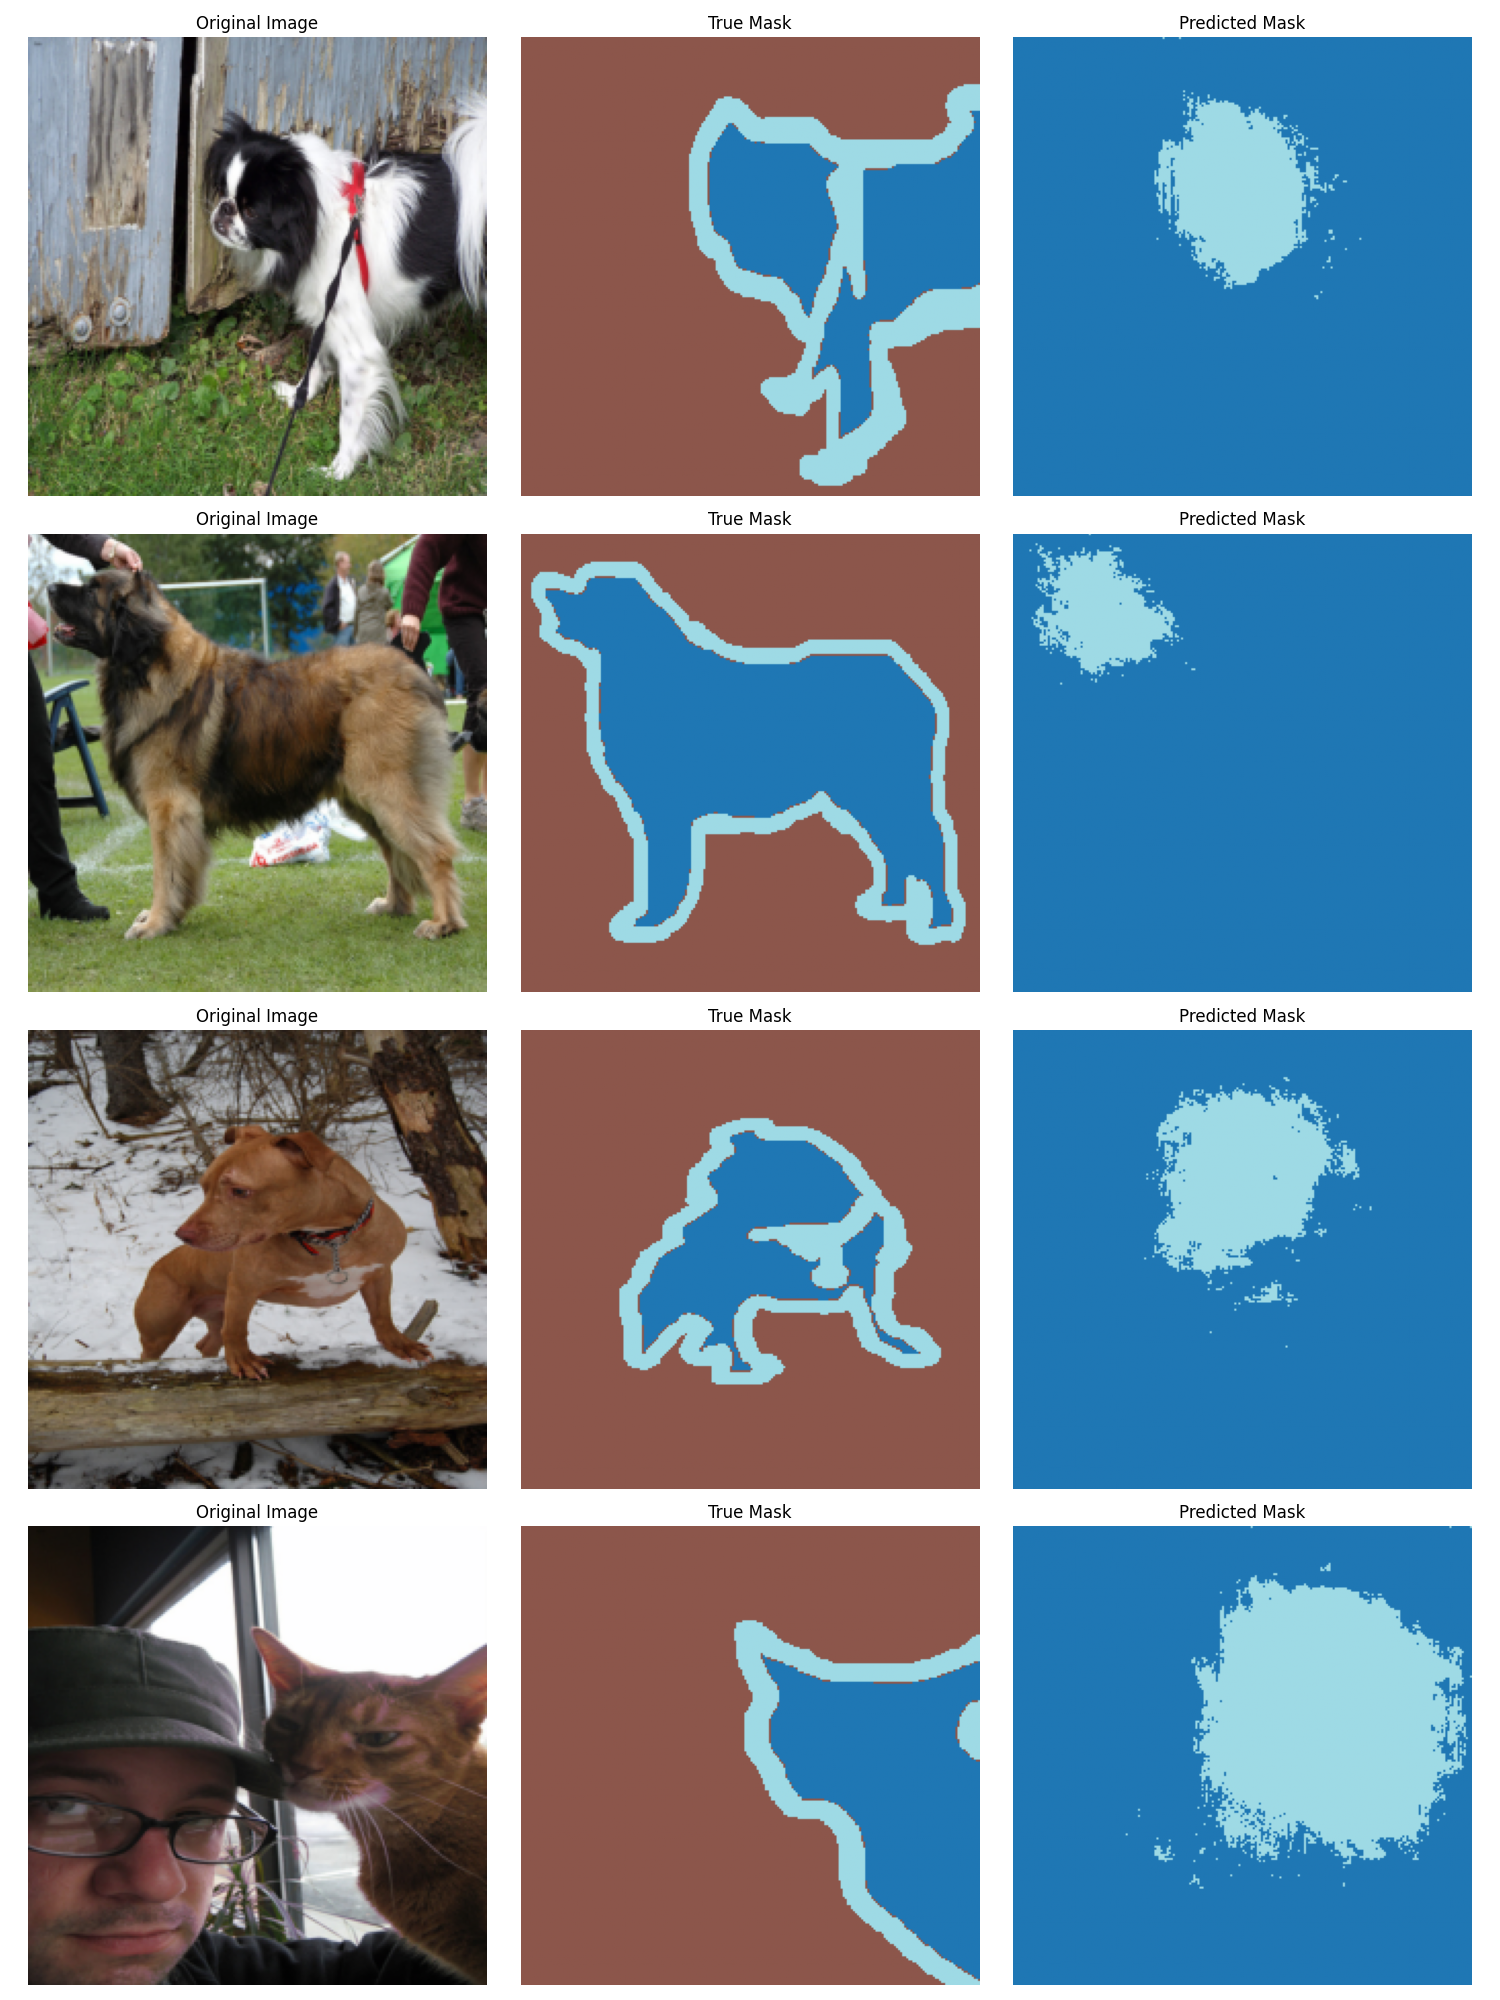
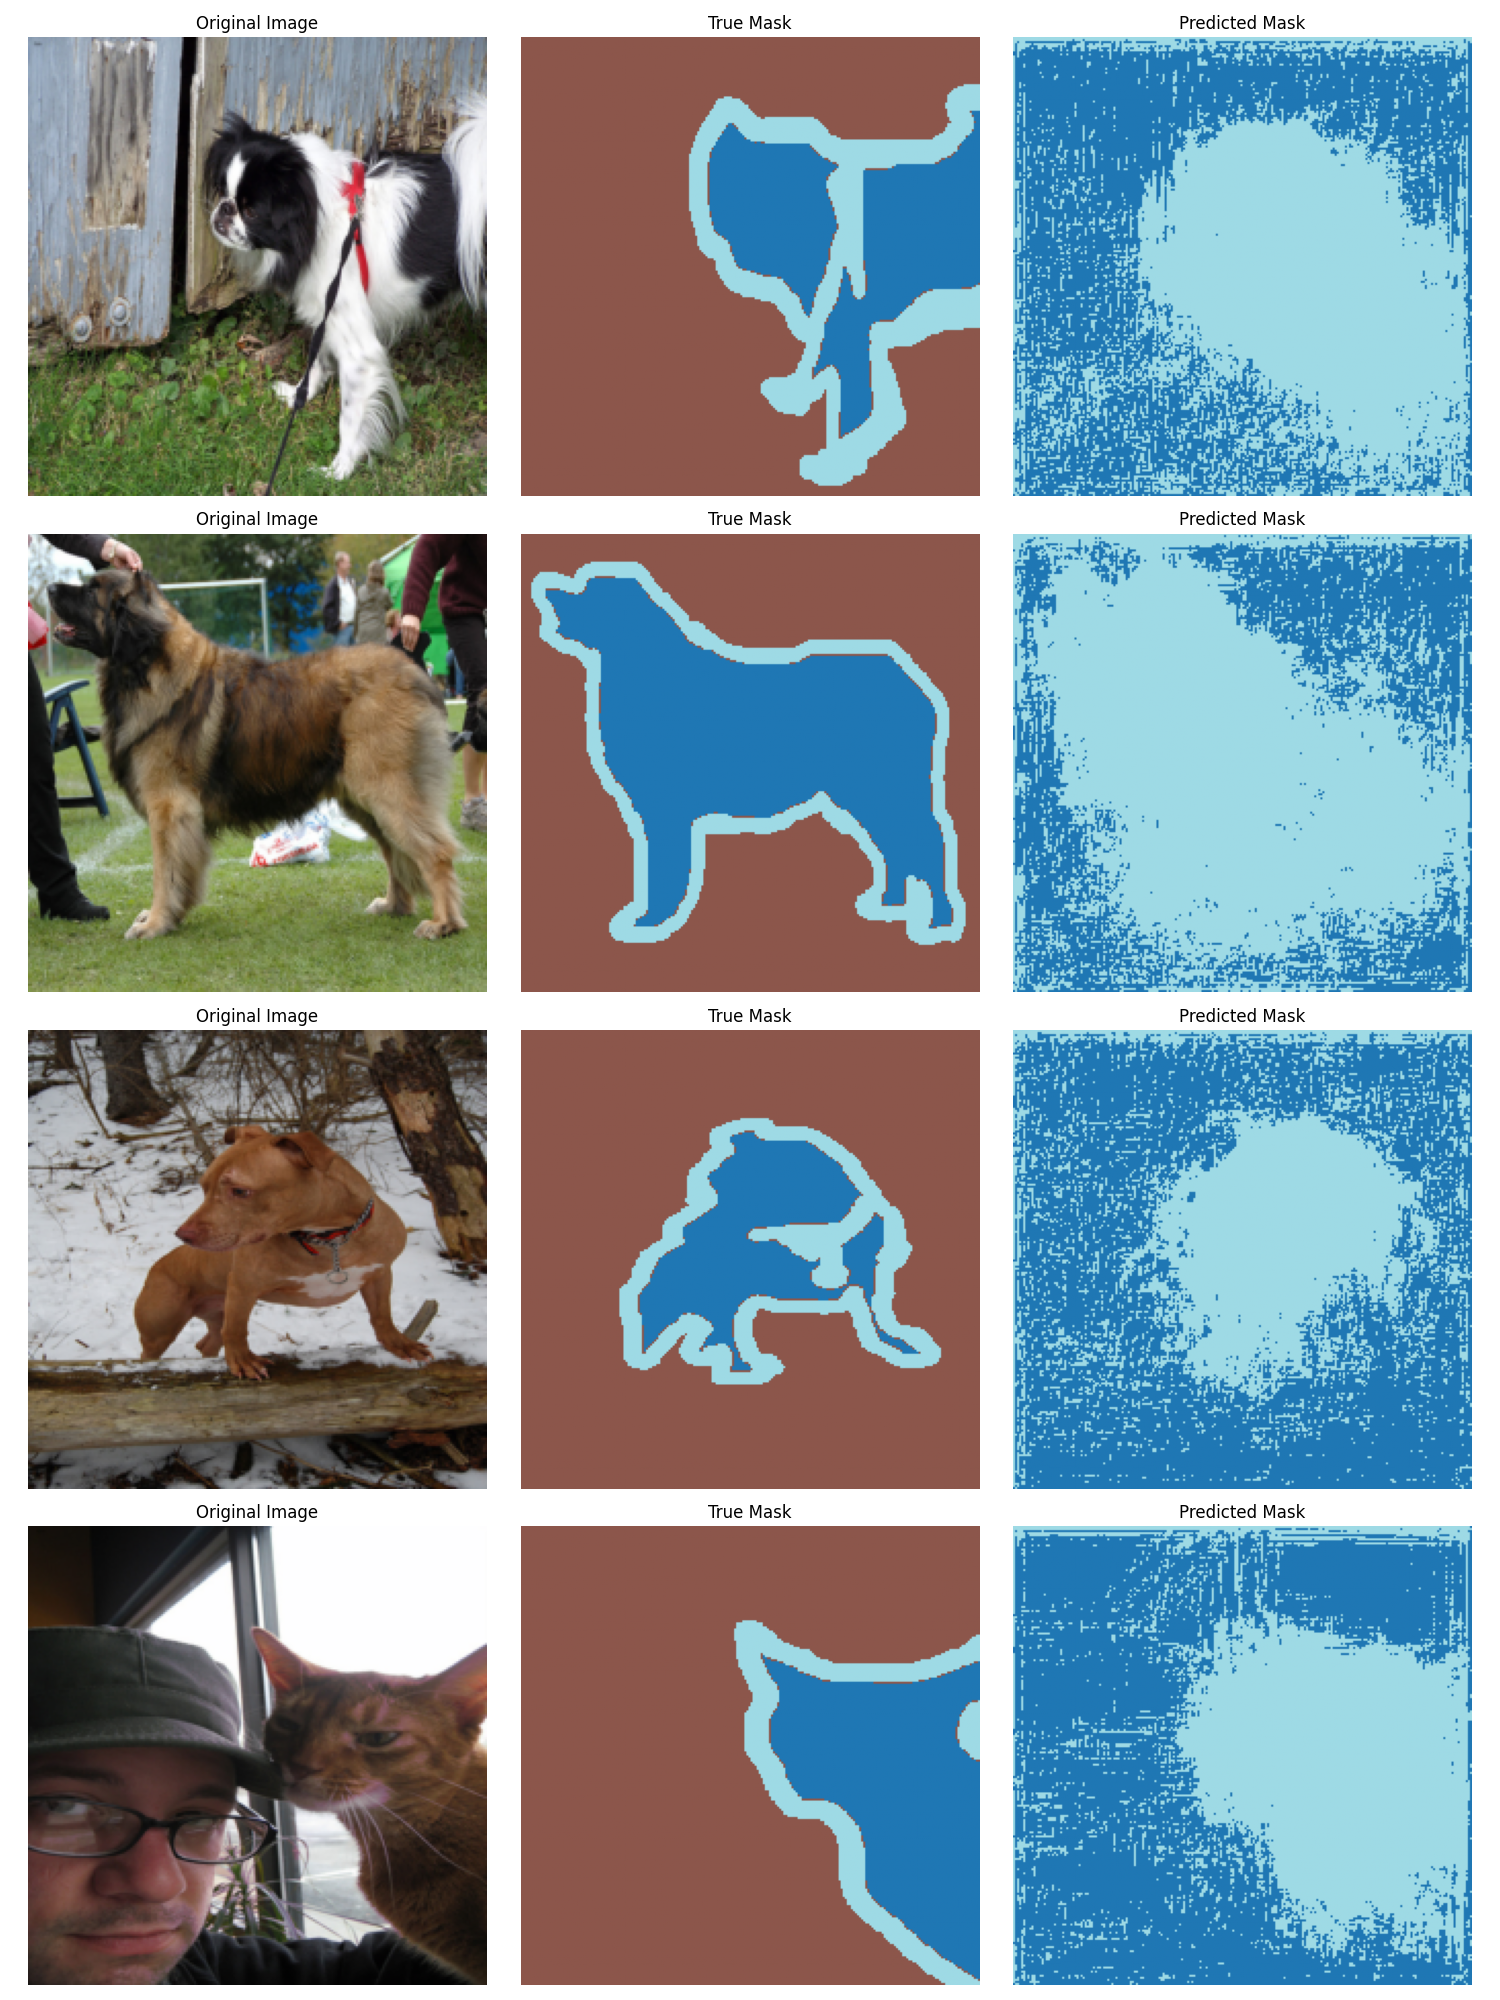
cam heatmap loss done

Changed region(s): [[0.6747, 0.0, 0.9813, 0.992]]

diff --git a/experiment.py b/experiment.py
@@ -196,6 +196,38 @@ def load_checkpoint(model, checkpoint_path):
     model.load_state_dict(checkpoint['model_state_dict'])
     return model, checkpoint['epoch'], checkpoint['best_loss']
 
+
+class CamLoss(nn.Module):
+    def __init__(self):
+        super().__init__()
+        self.loss_fn = nn.BCEWithLogitsLoss(
+            reduction='none')  # we'll reduce manually
+
+    def forward(self, logits, targets, mask=None):
+        """
+        Args:
+            logits: Tensor of shape (B, 1, H, W) — raw logits
+            targets: Tensor of shape (B, 1, H, W) — soft labels in [0, 1], or a special ignore value
+            mask: Optional Tensor (B, 1, H, W) — 1 to keep, 0 to ignore
+                  If not provided, mask = (targets != -1)
+        Returns:
+            Scalar loss
+        """
+        if mask is None:
+            # Mask everything that is not marked with -1 (ignore signal)
+            mask = (targets != -1).float()
+
+        loss = self.loss_fn(logits, targets)
+        loss = loss * mask  # zero out ignored areas
+
+        # Avoid division by zero
+        denom = mask.sum()
+        if denom == 0:
+            return torch.tensor(0.0, device=logits.device, requires_grad=True)
+
+        return loss.sum() / denom
+
+
 class BBoxLoss(nn.Module):
     def __init__(self):
         super().__init__()
@@ -212,7 +244,8 @@ class BBoxLoss(nn.Module):
         B, _, H, W = logits.shape
         background_logits = torch.zeros_like(logits)  # fake bg logits
         logits_2ch = torch.cat([background_logits, logits], dim=1)
-        targets = torch.full((B, H, W), -100, dtype=torch.long, device=logits.device)  # Default to ignore
+        targets = torch.full((B, H, W), -100, dtype=torch.long,
+                             device=logits.device)  # Default to ignore
 
         for i in range(B):
             # print(bboxes[i])
@@ -224,11 +257,12 @@ class BBoxLoss(nn.Module):
         loss = self.loss_fn(logits_2ch, targets)
         return loss
 
+
 def train_model(
     model,
     train_dataloader,
-    epochs=3,
-    learning_rate=3e-5,
+    epochs,
+    learning_rate,
     optimizer_name='adam',
     scheduler_name='cosine',
     checkpoint_dir='checkpoints',
@@ -256,7 +290,8 @@ def train_model(
         raise ValueError(f"Unsupported scheduler: {scheduler_name}")
 
     # criterion = nn.CrossEntropyLoss()
-    criterion = BBoxLoss()
+    # criterion = BBoxLoss()
+    criterion = CamLoss()
     best_loss = float('inf')
     start_epoch = 0
 
@@ -276,14 +311,16 @@ def train_model(
 
         for images, image_data in tqdm.tqdm(train_dataloader):
             # images = images.to(device)
-            # targets = targets.to(device)
+            # image_data = image_data.to(device)
 
             optimizer.zero_grad()
             outputs = model(images)
+            gapped = nn.AvgPool2d(32, 32)(outputs).squeeze()
+            # print(outputs.shape, gapped.shape)
             # loss = criterion(
             #     outputs, image_data[DatasetSelection.Trimap].to(torch.long))
             loss = criterion(
-                outputs, image_data[DatasetSelection.BBox])
+                gapped, image_data[DatasetSelection.CAM])
             loss.backward()
             optimizer.step()
 
@@ -328,8 +365,8 @@ def train_model(
 
 print("\n=== Using Segmentation Models PyTorch (SMP) for improved performance ===\n")
 BATCH_SIZE = 64
-EPOCHS = 5
-LEARNING_RATE = 1e-3
+EPOCHS = 10
+LEARNING_RATE = 1e-2
 OPTIMIZER_NAME = 'adam'
 SCHEDULER_NAME = 'reduce_on_plateau'
 CHECKPOINT_DIR = 'checkpoints/'
@@ -338,7 +375,7 @@ seed = 42
 
 torch.manual_seed(seed)
 
-#### TEST
+# TEST
 
 model = smp.Unet(
     encoder_name="resnet34",        # Choose encoder, e.g. resnet34
@@ -365,7 +402,7 @@ with torch.inference_mode():
     mask2 = truncated_model(images)
     print(mask2.shape)
 
-#### TEST
+# TEST
 
 
 # Define transformations for training
@@ -388,7 +425,7 @@ target_transform = transforms.Compose([
 ])
 
 train_dataset = InMemoryPetSegmentationDataset(
-    DATA_DIR, ANNOTATION_DIR, targets_list=[DatasetSelection.Trimap, DatasetSelection.BBox, DatasetSelection.Class])
+    DATA_DIR, ANNOTATION_DIR, targets_list=[DatasetSelection.CAM, DatasetSelection.Trimap])
 
 
 # Create train/val split
@@ -425,6 +462,7 @@ model = train_model(
 
 # smp_model(next(iter(train_dataloader))[0])
 
-smp_model, smp_epoch, smp_best_loss = load_checkpoint(smp_model, 'checkpoints/best_model.pth')
+smp_model, smp_epoch, smp_best_loss = load_checkpoint(
+    smp_model, 'checkpoints/best_model.pth')
 print(smp_epoch)
 metrics = visualize_predictions(smp_model, (val_dataset))

diff --git a/gen_cam_dataset.py b/gen_cam_dataset.py
@@ -111,7 +111,7 @@ if not os.path.exists('./models/'): os.mkdir('./models')
 # Set to True if you want to train, False to load pre-trained
 TRAIN_MODEL = True
 dataset = InMemoryPetSegmentationDataset(
-        DATA_DIR, ANNOTATION_DIR, targets_list=[DatasetSelection.Class, DatasetSelection.CAM, DatasetSelection.Trimap])
+        DATA_DIR, ANNOTATION_DIR, targets_list=[DatasetSelection.Class])
 
 if TRAIN_MODEL:
     train_loader = DataLoader(dataset, batch_size=64, shuffle=True)
@@ -144,18 +144,17 @@ def generate_cam(model, img, label):
     # Forward pass
     with torch.no_grad():
         model(img.unsqueeze(0).to(device))  # run a forward pass
-    
-    # Get weights from the final FC layer for the specified class
-    fc_weights = model.fc.weight[label].cpu()
-    
-    # Get feature maps from the last convolutional layer
-    feature_maps = model.last_features.squeeze(0).cpu()  # will be non-negative since last op is RELU
-    # Calculate weighted sum of feature maps
-    cam = (fc_weights[:, None, None] * feature_maps).sum(0)
-    cam = torch.sigmoid(cam)
+        # Get weights from the final FC layer for the specified class
+        fc_weights = model.fc.weight[label].cpu()
+        
+        # Get feature maps from the last convolutional layer
+        feature_maps = model.last_features.squeeze(0).cpu()  # will be non-negative since last op is RELU
+        # Calculate weighted sum of feature maps
+        cam = (fc_weights[:, None, None] * feature_maps).sum(0)
+        cam = torch.sigmoid(cam)
     
     # Convert to numpy and resize
-    cam = cam.detach().numpy()
+    cam = cam.detach()
     return cam
 
 cams = []

diff --git a/datasets.py b/datasets.py
@@ -100,7 +100,6 @@ class InMemoryPetSegmentationDataset(Dataset):
                 xmax * image_shape[0] / width,
                 ymax * image_shape[1] / height,
             ]).astype(int)
-        print(self.bbbox_dict)
 
         for fname in tqdm.tqdm(self.available_images):
             fname_with_extension = fname + '.jpg'
@@ -132,8 +131,8 @@ class InMemoryPetSegmentationDataset(Dataset):
                     fname, -1*np.ones(4, dtype=int))
             if DatasetSelection.CAM in self.targets_list:
                 cam_path = os.path.join(annotation_dir, 'heatmaps', fname)
-                sample_data[DatasetSelection.CAM] = torch.load(
-                    trimap_path, weights_only=False) if os.path.exists(cam_path) else None
+                sample_data[DatasetSelection.CAM] = (torch.load(
+                    cam_path, weights_only=False) if os.path.exists(cam_path) else -torch.ones((7, 7), dtype=torch.int8)).to(device)
 
             self.samples.append((img, sample_data))
 
